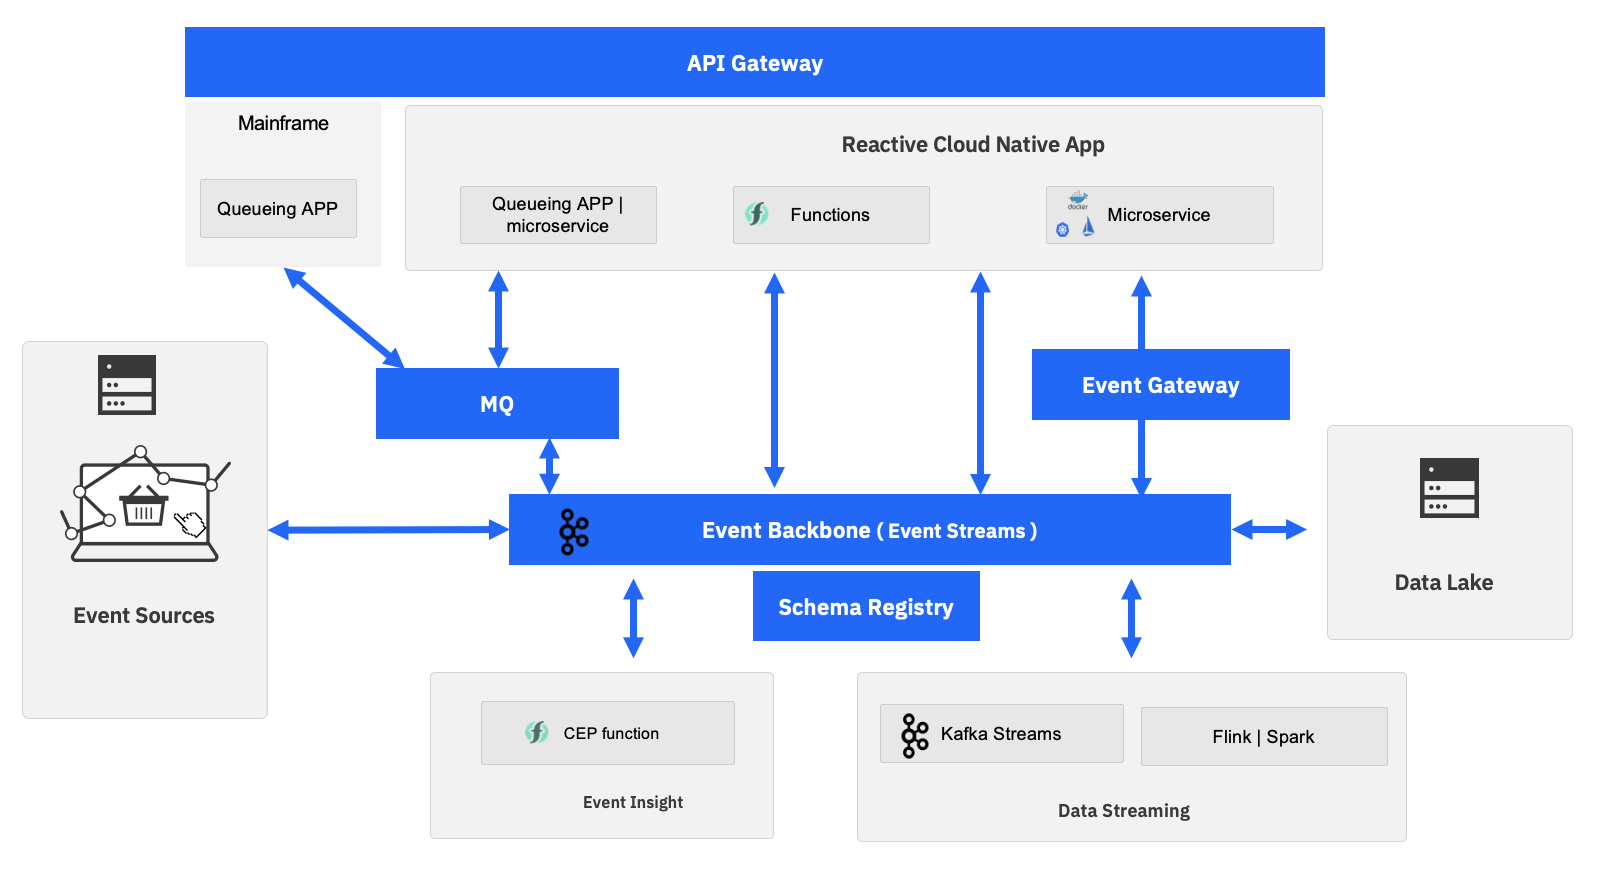
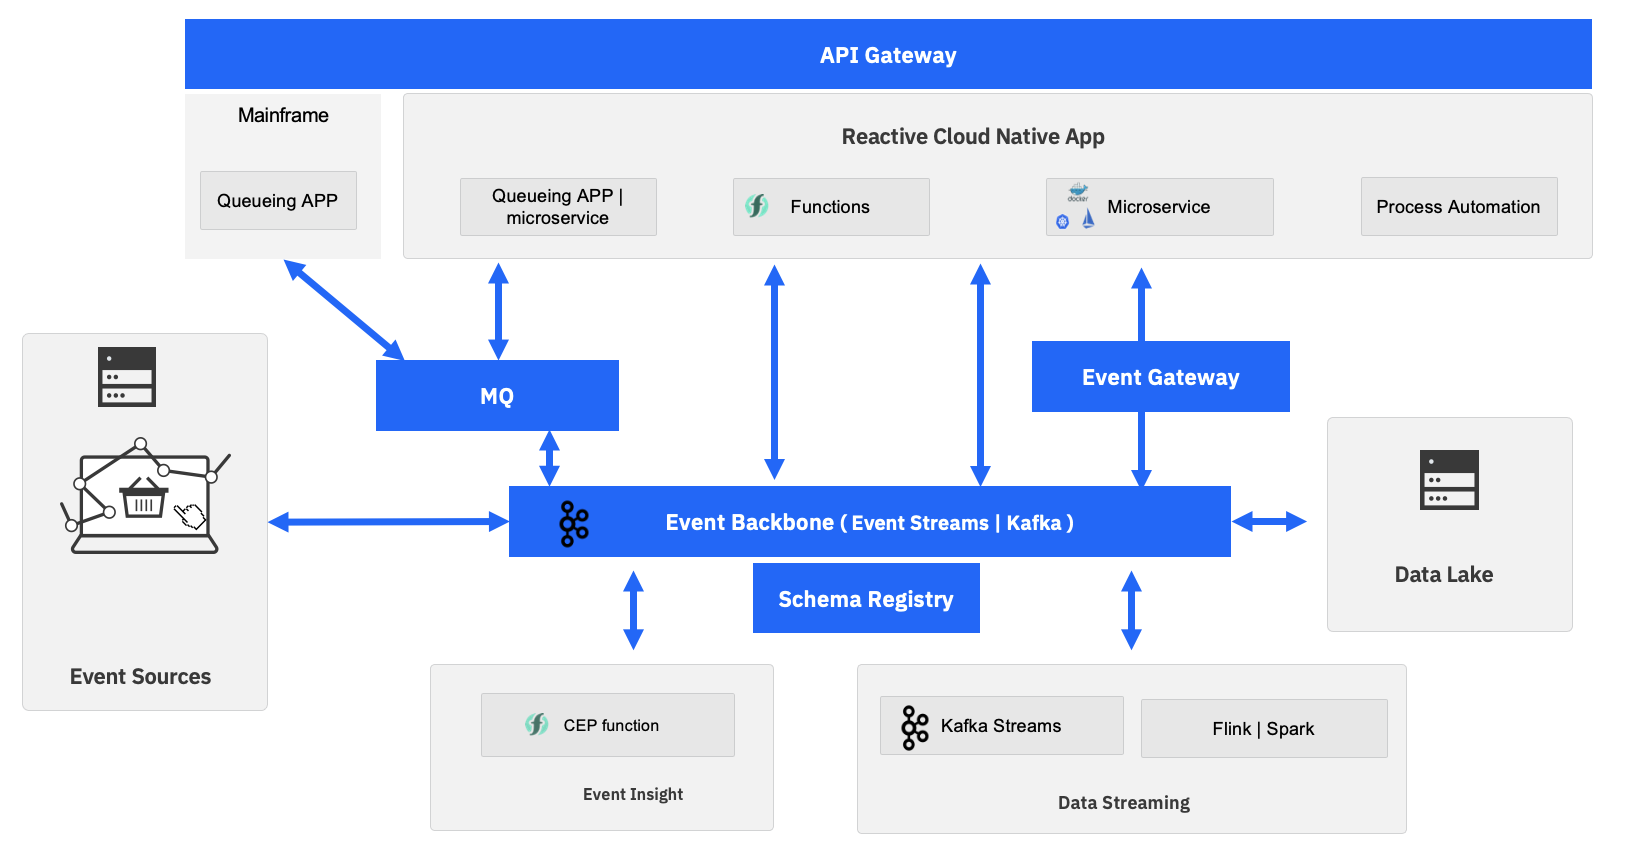
finalize new RA blog

diff --git a/docs/blogs/08-15-21/index.md b/docs/blogs/08-15-21/index.md
@@ -1,101 +1,137 @@
 # New messaging reference architecture
 
 It is interesting how quickly we can enter in 'save my church' discussion and argumentation, and completely do not see the elephant in the room.
-Since three years I spend time to design event-driven architecture for customers and develop best practices around it. One of church battle was the messaging versus eventing, or queueing versus pub/sub, Kakfa versus MQ.
-I hve to listen and sometime to agree with Architects who want to go full kafka, or the marketing messaging that claim queue is old stuff.
+Since three years I spent my time to design event-driven architecture for customers and develop best practices around it. 
+One of the church battle was the messaging versus eventing, or queueing versus pub/sub, Kafka versus MQ.
+I have to listen and sometime have to agree with Architects who want to go full Kafka, or to the marketing messaging that claims " 'Queue' is an old stuff
+you do not need anymore".
 
-But this is completely wrong. 
+But this is a completely wrong statement: when developing digital business applications we need different tools to address different semantic.
 
-Really at the core principle what we need to support are:
+Few years ago, experts defined a classification for [eventing versus messaging](https://ibm-cloud-architecture.github.io/refarch-eda/concepts/events-versus-messages/#messaging-versus-event-streaming): 
+even if most of the points are still relevant, it is important to note that applications are exchanging array of bytes, representing messages to be
+shared between components. What is really important, is to consider the following requirements:
 
-- get visibility of the new data created by existing and old application in real time to get better insights and propose new business to the customers.
-- integrate with transactional systems, and continue to do transaction
-- move to asynchronous communication between serverless and microservices, so really adopting the reactive manifesto
+* send **asynchronously request to an other app** to expect it to send a **response** back, or to perform an action. 
+* send **asynchronously** messages to broadcast to the world about its data changes. This represents fact about its data, which, in Domain Driven Design, are **events**.
+
+In both cases, applications are sending messages as bytes, over the network and persisted in a messaging middleware. 
+The processing of those messages are different and this is why you need two products or two type of features within the same product to support:
+
+* **point-to-point communication**, with queue to persist the messages. Messages in the queue are removed once consumed: this is perfect to support
+request/response communication. We do that since 40 years of implementing business applications.
+* **pub/sub communication**, with topics to persist the messages. There is a temporal decoupling, and what Kafka added to the 
+classical JMS topic based middleware, is the fact that messages can be persisted for a long time period, and are not removed by the middleware
+once they are consumed by all subscribers. There is no more concept of "all subscriber". Consumers consume when they want, for the last message read
+or from the first message (or between to be precise). The message are ordered by key and timestamp. Applications can do data streaming, continuously
+consuming messages, processing them and publish new ones to different topic. Those new capabilities offer new real time processing on data in motion.
+
+Now that we have the core of the major difference between queues and topic middleware,
+we want to identify a set of key requirements an architect needs to address:
+
+- get visibility of the new data created by existing and old applications in real time to get better business insights and propose new business opportunities to the end-users / customers.
+- integrate with existing transactional systems, and continue to do transaction processing while adopting eventual consistency of distributed systems. (Cloud native serverless or microservices are distributed systems)
+- move to asynchronous communication between serverless and microservices, to be responsive, resilient and scalable (characteristics of 'Reactive applications').
 - get loosely coupled but still understand the API contracts. API being synchronous (RES, SOAP) or asynch (queue and topic).
-- get clear visibility of data governance, who access what, securely, and to do what.
+- get clear visibility of data governance, with cataloging applications to be able to continuously assess which apps securely access what, and to do what.
 
-Now we can write. at least 600 pages book to propose some solution. As books are mostly obsolete, only blogs and you tube channels are seen as valuable those days, let start small
-and let define a new messaging or reactive reference architecture.
+In the [Gartner's Maturity model for EDA](https://www.gartner.com/en/documents/3942102/maturity-model-for-event-driven-architecture), we see the evolution an enterprise needs to follow to grow from 'Incidental' EDA model to 'Advanced or Pervasive' where EDA is part of 
+the business portfolio, and the requirements above are strong considerations to address to move to 'Advanced' stage.
 
-I will take our current EDA reference diagram, and extend it to support the previous principles:
+Our [EDA reference architecture](https://ibm-cloud-architecture.github.io/refarch-eda/introduction/reference-architecture/#event-driven-architecture) was defined more than two years ago,
+and as new requirements are coming over time, we always need to revisit it. The following figure will be the new
+base to support previous needs:
 
 ![](./images/new-mda.png)
 
-First I will kill this pseudo semantic classification of "events versus messaging": at the end of the day, applications are exchanging array of bytes, representing messages sent to other(s). 
-What is really important, is to consider two requirements:
-
-* send asynchronously messages to an other app to expect it to send a response back, or to perform an action. 
-* send asynchronously messages to say to the world about its data changes. This represents fact about its data, which in DDD are events.
-
-In both case applications are sending messages as bytes, over the network and persisted in a messaging middleware.
-
-Now the processing of those messages are different and this is why you need two products or two type of features within the same product:
-
-* support point-to-point communication, with queue to persist the messages. Messages in the queue are removed once consumed: this is perfect to support
-request/response communication. We do that since 40 years of implementing business applications.
-* support pub/sub communication, with topics to persist the messages: now there is a temporal decoupling, and what Kafka added to the 
-classical JMS topic based middleware, is the fact that messages can be persisted for a long time period, and are not removed by the middleware
-once they are consumed by all subscribers. The message are ordered by key and timestamp. Applications can do data streaming, continuously
-consuming message, processing them and publish new ones to different topic. Those new capabilities offer new real time processing on data in motion.
-
-So the reference architecture illustrates that we need both queues and topics based middleware. 
+**Figure 1: EDA reference architecture**
 
 Let continue exploring all of the elements of this reference architecture:
 
-On the queue side, we need to have modern microservices or function as service being able to write and read to/from queues. This has to be
-the way to code asynchronous request / response communication. I defended CQRS and Saga to be very important design patterns in modern microservice solution, 
+On the **queue side** (top left corner of figure 1), we need to have modern microservices or function as service being able to write and read to/from queues. This has to be
+the way to code asynchronous request / response communication. I defended [CQRS](https://ibm-cloud-architecture.github.io/refarch-eda/patterns/cqrs/) and [Saga](https://ibm-cloud-architecture.github.io/refarch-eda/patterns/saga/) to be very important design patterns in modern microservice solution, 
 but those patterns need to be implemented with queues, a mix of queue and topic and not just topic. 
-IBM MQ middleware product supports XA transactions, and it is key to keep this semantic in any modern architecture: we want to publish messages while writing to database in the same transaction.
-Also mainframes are still excellent citizens in any hybrid cloud architecture. They support the transactional processing, and most of the time at a lower total cost of ownership then distributed. 
-But I do not want to argument around that. Most mainframes are integrated with MQ to support asynchronous request / response communication.
-
-Now to address data visibility, it makes a lot of sense to get data replicated in queues and then injected from queue to Kafka topic. This is the arrow
+Queueing product, like IBM MQ, supports XA transactions, and this is a key feature to keep in any modern architecture: we want to publish messages while writing to database in the same transaction.
+Also mainframes are still excellent citizens in any hybrid cloud architecture. They support the transactional processing, and most of the time at a lower total cost of ownership then distributed systems. 
+But I will not extend on TCO in this article. Most mainframes are integrated with MQ to support asynchronous request / response communication and in EDA we want to get
+visibility of those messages. Therefore it makes a lot of sense to get data replicated in queues and then injected from queue to Kafka topic. This is the arrow
 between MQ and Kafka and the Kafka connector framework is used to support this injection.
 
-On the microservice side, developers need to adopt domain-driven design to better identify bounded contexts, events and commands to
-be developed in the microservice context. Commands are most of the time, vers defined in the OpenAPI contract. 
-But they may be asynchronous to adopt loosely coupling between components. In DDD, events
-are immutable facts so discovered events are good candidates for messages in topics. Which means, most likely, reactive microservice, which
-by the reactive manifesto principles, are message driven will have to integrate with Kafka.
+On the **Reactive cloud native app** side, developers need to adopt domain-driven design to better identify bounded contexts, aggregates, events and commands to
+be developed in the microservice context. Commands are most of the time, verbs defined in the OpenAPI contract. Entities and aggregates will serve
+to define what the service will manage and expose APIs to.
+
+To be reactive, those microservice are message driven, and will have to integrate with messaging middleware.
 
 ![](./images/reactive-manifesto.png)
 
+In DDD, events are immutable facts so discovered events are good candidates for messages in queues and topics. 
+As seen at the beginning of this article the semantic of the communication will help decide if we need queue or topic or both.
+[Event sourcing](https://ibm-cloud-architecture.github.io/refarch-eda/patterns/event-sourcing/) is another pattern that will influence such decision.
+
 To keep the best practices of contract testing and contract management, AsyncAPI specification helps developers
-to define the schema structure of the messages to exchange between components. 
+to define the schema structure of the messages to exchange asynchronously between components. 
 
-OpenAPI can be developed top down, or bottom up by using microprofile openApi component inside your Java app. When adopting API management
-this openAPI definition is also deployed in an API gateway to control the traffic and security access. HTTP communication between RESTful end point are going
- to the API gateway. Now when communication is via queue or topic, AsyncAPI definitions are used and can be defined in event gateway which
- acts as a middle man between message producer and consumer. We are at the beginning of such technologies adoption but it will help
+OpenAPI can be developed top-down, or bottom-up by using microprofile openApi component inside your Java app for example. When adopting API management
+this openAPI definition is also deployed in an **API gateway** to control the traffic and security access of each cloud native apps. 
+HTTP communications between RESTful end point are going
+ to the API gateway. Now when communication is via queue or topic, AsyncAPI definitions are used and can be defined in the **Event Gateway** which
+ acts as a middle man between message brokers and consumers. We are at the beginning of such technologies adoption but it will help
  on the traffic monitoring and application governance.
-  
-Still part of the component portfolio is the Schema registry, which is a major element to to maintain efficient schema management and versioning between Kafka based apps.
 
-Cloud native developers need to consider microprofile messaging, knative eventing or any actor framework (like [IBM KAR](https://github.com/IBM/kar))
-to support the implementation of their service. The following diagram presents a potential structure for such service: JAX-RS
-resources are defined with [microprofile OpenAPI]()https://github.com/eclipse/microprofile-open-api annotations, which can then
-be exported to an API management product.
+If OpenAPI are defining API data schema in the form of JSON schema for REST end point, the **Schema registry**, is adding schema management and versioning
+so Kafka based applications can get their data contract. This was the first piece of the asynchronous contract definition, asyncAPI is adding more
+specification to it, but schema registry are not yet fully integrated with API management. 
+[Apicurio](https://www.apicur.io/) is an open source project which supports APi and schema registry.
+
+Cloud native developers need to consider [microprofile messaging](https://download.eclipse.org/microprofile/microprofile-reactive-messaging-1.0/microprofile-reactive-messaging-spec.pdf), [knative eventing](https://knative.dev/docs/eventing/) or any actor framework (like [IBM KAR](https://github.com/IBM/kar))
+to support the implementation of their services. 
+
+The following figure presents a potential structure for such service: APIs are defined using [microprofile OpenAPI](https://github.com/eclipse/microprofile-open-api) annotations
+in one or more JAXRS resource classes.  Those API can then be managed within an API management product like IBM App connect.
 
 ![](./images/reactive-app.png)
 
-The business logic is in its own layer with DDD aggregate concepts, ubiquitous language, service, business rules,... 
+The rest of the application structure reflect the DDD approach of onion architecture.
+The business logic is in its own layer with DDD aggregate concepts, ubiquitous language, service, business rules, etc... 
 Repository supports persisting those aggregates to external database, document oriented or SQL based. 
-Then as those microservice are message driven, [microprofile reactive messaging](https://download.eclipse.org/microprofile/microprofile-reactive-messaging-1.0/microprofile-reactive-messaging-spec.pdf) can be used to define the different publishing channels, being queue, or topic or both.
-From the JSON or Avro schema defining the messages or events, developers can build an asyncAPI specification which can also being
-management by an API product (IBM API Connect for example).
 
-We have addressed the top part of the architecture diagram. 
+As most of the new microservices are message-driven, we are adding a messaging layer which
+may use queues or topics. In Java, the [microprofile reactive messaging](https://download.eclipse.org/microprofile/microprofile-reactive-messaging-1.0/microprofile-reactive-messaging-spec.pdf) specification
+may be used to define the different publishing channels, being queue, or topic or both.
+From the JSON or Avro schema defining the messages or events structure, developers can build an asyncAPI specification which may also be
+managed by an API product.
 
-On the left we can see difference source of data to be injected to Kafka so data can be visible to any consumers. 
-Different solution can be used to inject such data, and Change Data Capture technologies should be considered to
-address non-green field apps. 
+I will present some code template for
+such application using continuous integration and deployment to Kubernetes platform in a separate blog.
 
-On the right side, there is a very important element, is the data lake. This where big data processing is done, AI models are built,
+The last piece of cloud native application, is the migration of long running, stateful applications which used
+to be developed in Business Process Management platform to microservice: The retooling and modernization of such monolithic 
+product suite, is based on microservices and even serverless architecture. Business application that needs 
+long running, human centric workflow, will run on top of event backbone, to consume business
+events or produce such events at intermediate steps within the process. That are very important
+elements of EDA and modern digital enterprise.
+
+On the left side of figure 1, we can see difference data sources: those data need to be injected 
+to the event backbone so data can be visible to any consumers. 
+Different solutions can be used to inject such data, and **Change Data Capture** technologies should be considered as a solution
+to get non-green field apps into modern distributed and event centric world. 
+
+On the right side of figure 1, there is a very important element to take into consideration: the cloud data lake. 
+This where big data processing is done, AI models are built,
 and all the featuring engineering occur. This is an highly scalable environment, supporting large amount of data, structured or unstructured.
-Event backbones, like Kafka, are used as data injection to data lake, but also to apply real-time analytics on the data stream.
+Event backbones, like Kafka, are used as data injection to modern data lake, but also to support real-time analytics on the data stream.
 
-This is the lower row of the architecture diagram: AI mode, predictive scoring developed on the big data can be used to score
-data in real time. Different technologies can be used, we are using Apache Flink and Spark to support this analytics and sometime
-Kafka Streams. Finally there are also new set of applications that can be integrated to support complex event processing. Apache Flink has
-a [CEP engine](https://ci.apache.org/projects/flink/flink-docs-release-1.13/docs/libs/cep/), but other could be considered. The main point is to be able to work on event sequencing logic and derive new synthetic events or to trigger business actions. 
+Mature adoption of event-driven architecture integrates with stream analytics, AI and API marketplaces, to help business teams 
+enable new leading-edge solutions. These include continuous intelligence, contextual decision making, global ecosystems operations, and monetizing of event-derived insights.
 
+The lower row of the architecture diagram presents such capabilities: AI model and predictive scoring developed on the big data platform can be used to score
+event notifications in near-real-time. Different technologies can be used, we are using Apache Flink or Apache Spark to support this analytics. Kafka
+Stream may also being used, but it is strongly coupled to Kafka, so applying clear separation of concern principles,
+it is interesting to consider Flink as a better alternative.
+
+Finally there are also new set of applications that can be integrated to support complex event processing semantic. Apache Flink has
+a [CEP engine](https://ci.apache.org/projects/flink/flink-docs-release-1.13/docs/libs/cep/) to be able to work on event sequencing and derive new synthetic events from event pattern or to trigger business actions.
+Fink is a very nice platform to support your event streaming and CEP independently to Kafka. 
+
+I think I cover all the elements of this new EDA reference architecture. More to come...

diff --git a/docs/techno/ads.md b/docs/techno/ads.md
@@ -34,7 +34,7 @@ ADS is not yet in docker image.
 
 ## Installation
 
-Being part of Cloud Pak for Automation, we need to intall it on OpenShift. The install doc is [here](https://www.ibm.com/docs/en/cloud-paks/cp-biz-automation/21.0.x?topic=automation-installing). 
+Being part of Cloud Pak for Automation, we need to install it on OpenShift. The install doc is [here](https://www.ibm.com/docs/en/cloud-paks/cp-biz-automation/21.0.x?topic=automation-installing). 
 Installation uses  operator lifecycle manager (OLM).
 
 IBM Cloud Pak for Business Automation comes with the IBM Cloud® platform foundation which includes:
@@ -51,7 +51,7 @@ Summary of installation steps:
 * Get IBM license entitled registry key
 * Get the storage class name to use for dynamic storage
 * Preparing storage for cloud pak operator
-* download the [k8s certificates]( (https://www.ibm.com/docs/en/cloud-paks/cp-biz-automation/21.0.x?topic=cluster-setting-up-admin-script)
+* download the [k8s certificates](https://www.ibm.com/docs/en/cloud-paks/cp-biz-automation/21.0.x?topic=cluster-setting-up-admin-script)
 ) and configuration to prepare the OCP cluster
 * Define a project where the Cloud Pak will be installed and then modify cluster_role_binding
 * Run the `cert-kubernetes/descriptors/cp4a-clusteradmin-setup.sh` script
@@ -64,7 +64,7 @@ To be able to support CI/CD we need to get the ADS Maven plugin. This is done by
 
 * Get a UMS user
 * Be sure to have installed a Nexus server to OpenShift
-* authenthicate to ADS_BASE_URL with the access token of the UMS user.
+* authenticate to ADS_BASE_URL with the access token of the UMS user.
 
 ## Not yet there
 

diff --git a/docs/blogs/04-15-21/index.md b/docs/blogs/04-15-21/index.md
@@ -94,3 +94,5 @@ Combining event backbone and data streaming with AI is the way to go and we need
 * [Event-driven architecture body of knowledge (Always work in progress)](https://ibm-cloud-architecture.github.io/refarch-eda/)
 * [Event storming methodology](https://ibm-cloud-architecture.github.io/refarch-eda/methodology/event-storming/)
 * [Kafka fundamentals](https://developer.ibm.com/articles/event-streams-kafka-fundamentals) with some [other best practices](https://ibm-cloud-architecture.github.io/refarch-eda/technology/kafka-producers-consumers/)
+
+This blog was also published [to Medium](https://medium.com/@jerome.boyer/event-driven-solution-is-still-a-hot-topic-15632a8130ef)

diff --git a/docs/architecture/ibmcloud.md b/docs/architecture/ibmcloud.md
@@ -47,7 +47,7 @@ VPE has multiple benefits like:
 to present how to share the data across availability zones in VPC and DR site using IBM Cloud object storage.
 The buckets are mounted inside VSIs from source site to DR AZ:
 
-![](./images/vpe-cos.png)
+![](./images/vpe-cos.jpg)
 
 
 ## Cloud Object Storage

diff --git a/docs/blogs/index.md b/docs/blogs/index.md
@@ -9,6 +9,8 @@
 
 ## 08/15/2021 A new reference architecture
 
+Support new requirements and EDA governance construct in a new reference architecture
+
 [>> read more](/blogs/08-15-21)
 
 ## 05/29/2021 A new interesting reference implementationp
